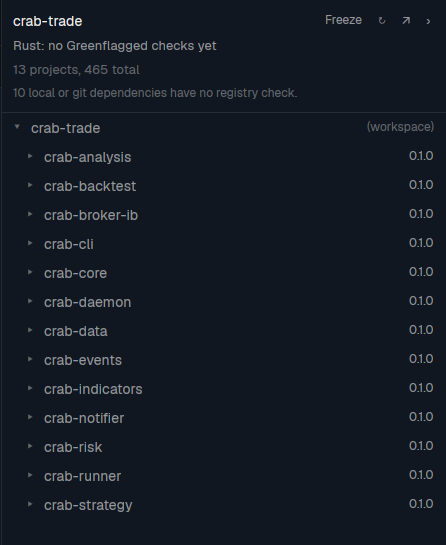
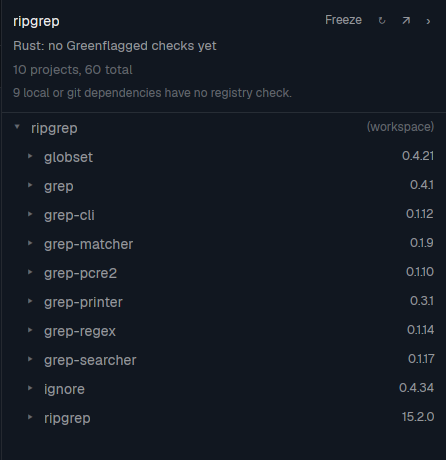
Address review findings (round 1)
- An audit error now drops a signed-out tree, so a later mid-edit no
  longer shows the sign-in line for a panel that holds a token.
- The README no longer says the audit checks every direct dependency.
- preview.png and docs/4-tree.webp are retaken on BurntSushi/ripgrep,
  with alt text and the RECIPE example rewritten to match.

Claude-Session: https://claude.ai/code/session_015cqYHJqSQygVaEB5pbEGiR

diff --git a/test/audit.test.js b/test/audit.test.js
@@ -2,7 +2,7 @@ import assert from "node:assert/strict";
 import { readFileSync } from "node:fs";
 import { test } from "node:test";
 import {
-  AUDIT_TTL_MS, ECOSYSTEMS, NPM_NOTE, REFUSED_NOTE, auditOutcome, MAX_ENTRIES, WATCHED_FILES, SIGN_IN_COMMAND, auditRequest, findBlock, findManifest, cachedAudit, storeAudit, packageUrl, rememberRequest, requestCall, withRequests, parentFolders, parseToolResponse, parsePackageJson, rows, summarize, tokenFromNpmrc, lastValidProject, staleNote,
+  AUDIT_TTL_MS, ECOSYSTEMS, NPM_NOTE, REFUSED_NOTE, auditOutcome, MAX_ENTRIES, WATCHED_FILES, SIGN_IN_COMMAND, auditRequest, findBlock, findManifest, cachedAudit, storeAudit, packageUrl, rememberRequest, requestCall, withRequests, parentFolders, parseToolResponse, parsePackageJson, rows, summarize, tokenFromNpmrc, lastValidProject, staleNote, staleState, screenAfterOutcome,
 } from "../mods/greenflagged/audit.js";
 import { countsLine, treeForProject } from "../mods/greenflagged/tree.js";
 
@@ -571,6 +571,27 @@ test("a token the audit accepts shows the audit; any other answer is an error", 
   assert.deepEqual(auditOutcome("gflag_x", 200), { view: "audit", message: null, forget: false });
   assert.deepEqual(auditOutcome("gflag_x", 500), { view: "error", message: "Greenflagged answered 500.", forget: false });
   assert.deepEqual(auditOutcome("gflag_x", 429), { view: "error", message: "Greenflagged answered 429.", forget: false });
+});
+
+test("an audit error drops a signed-out tree, so a later mid-edit isn't shown as signed out", () => {
+  const tree = { roots: [] };
+  const signedOut = { list: null, tree, treeSource: "s" };
+  assert.equal(staleState(signedOut, true), "signed-out");
+  const afterError = screenAfterOutcome(auditOutcome("gflag_x", 500), signedOut);
+  assert.deepEqual(afterError, { list: null, tree: null, treeSource: null });
+  assert.equal(staleState(afterError, true), null);
+});
+
+test("the tree outcome keeps the tree and drops the list; the audit outcome leaves both", () => {
+  const tree = { roots: [] }, list = [{ name: "a" }];
+  assert.deepEqual(screenAfterOutcome(auditOutcome(null), { list, tree, treeSource: "s" }), { list: null, tree, treeSource: "s" });
+  assert.deepEqual(screenAfterOutcome(auditOutcome("gflag_x", 200), { list, tree, treeSource: "s" }), { list, tree, treeSource: "s" });
+});
+
+test("staleState follows what is on screen", () => {
+  assert.equal(staleState({ list: [], tree: null }, true), "error");
+  assert.equal(staleState({ list: null, tree: {} }, false), "unsupported");
+  assert.equal(staleState({ list: null, tree: null }, false), null);
 });
 
 test("the npm entry is audited, has its own note, and reads no lockfile", () => {

diff --git a/mods/greenflagged/main.js b/mods/greenflagged/main.js
@@ -5,7 +5,7 @@ import {
 } from "herdr";
 import {
   MCP_URL, MAX_ENTRIES, SIGN_IN_COMMAND, WATCHED_FILES, auditOutcome, auditRequest, cachedAudit, findBlock, findManifest, lastValidProject, packageUrl, parentFolders,
-  parseToolResponse, rememberRequest, requestCall, rows, staleNote, storeAudit, summarize, tokenFromNpmrc, withRequests,
+  parseToolResponse, rememberRequest, requestCall, rows, screenAfterOutcome, staleNote, staleState, storeAudit, summarize, tokenFromNpmrc, withRequests,
 } from "./audit.js";
 import { countsLine, expandNode, failedNote, topLevel, treeForProject, visibleRows } from "./tree.js";
 
@@ -183,10 +183,8 @@ export default class Greenflagged extends View {
           // Mid-edit: keep the last valid list or tree of this file on this machine, dimmed,
           // with the error over it.
           const last = lastValidProject(this.project, project);
-          // By what is on screen: an audited project signed out shows a tree, not a list.
-          if (last && (this.list || this.tree)) {
-            return settle(this.list ? "error" : last.ecosystem.audited ? "signed-out" : "unsupported", staleNote(project.error), true);
-          }
+          const stale = last && staleState(this, last.ecosystem.audited);
+          if (stale) return settle(stale, staleNote(project.error), true);
           if (project.path !== this.project?.path || project.on !== this.project?.on) { this.tree = null; this.treeSource = null; this.expanded = new Set(); }
           this.project = project; this.list = null;
           return settle("error", project.error);
@@ -217,9 +215,9 @@ export default class Greenflagged extends View {
         if (run !== this.run) return;
         const outcome = auditOutcome(this.token, response?.status);
         if (outcome.forget) this.token = null;
+        Object.assign(this, screenAfterOutcome(outcome, this));
         // Signed out, the panel is still a tree viewer: the plain tree, with a sign-in line.
         if (outcome.view === "tree") {
-          this.list = null;
           await this.buildProjectTree(project, here, run, cx);
           if (run !== this.run) return;
           return settle("signed-out", outcome.message);

diff --git a/mods/greenflagged/audit.js b/mods/greenflagged/audit.js
@@ -228,6 +228,22 @@ export function lastValidProject(previous, failed) {
 }
 export const staleNote = (error) => `${error} · showing the last valid version`;
 
+// Mid-edit, the state to show over the last valid view, chosen by what is on screen: the
+// audit's list, or a tree, which for an audited project means signed out. Null with neither.
+export function staleState({ list, tree }, audited) {
+  if (list) return "error";
+  if (tree) return audited ? "signed-out" : "unsupported";
+  return null;
+}
+
+// What an audited project keeps on screen once the audit has answered. An error drops the
+// tree, so a mid-edit after it doesn't pick the signed-out view for a panel holding a token.
+export function screenAfterOutcome(outcome, { list, tree, treeSource }) {
+  if (outcome.view === "tree") return { list: null, tree, treeSource };
+  if (outcome.view === "error") return { list, tree: null, treeSource: null };
+  return { list, tree, treeSource };
+}
+
 // A parser should answer { error } on bad input; one that throws gets the same
 // { error } result, so findManifest still returns the project and its message names
 // the manifest file.

diff --git a/RECIPE.md b/RECIPE.md
@@ -2,7 +2,7 @@
 
 A dependency tree viewer for Herdr. It follows the terminal you're working in and shows the project's dependency tree for npm, Python, Rust, Go, Java and Kotlin, read from its manifest and lockfile. It needs no account. Greenflagged's checks are the extra layer: signed in, an npm (JavaScript) project's rows become verdicts, so the panel spots rejected and unreviewed dependencies as your agent works and shows what to use instead. [Greenflagged](https://greenflagged.dev) is a private npm registry that scans and reviews every package it serves. It is free for personal use.
 
-![Panel for the Rust workspace crab-trade reading "Rust: no Greenflagged checks yet", "13 projects, 465 total" and "10 local or git dependencies have no registry check", with an open crab-trade (workspace) row over its thirteen crates, each at 0.1.0](preview.png)
+![Panel for the Rust workspace ripgrep reading "Rust: no Greenflagged checks yet", "10 projects, 60 total" and "9 local or git dependencies have no registry check", with an open ripgrep (workspace) row over its ten crates, from globset 0.4.21 to ripgrep 15.2.0](preview.png)
 
 ## What you see
 
@@ -270,10 +270,10 @@ Levels and labels come from the audit `status`:
   deleted and ↻ clicked, it shows the no-lockfile note and the three manifest dependencies.
 - In a Rust project with a `Cargo.lock`, the panel shows "N direct, M total", `[dev-dependencies]`
   tagged `dev` and `[target.'cfg(...)'.dependencies]` with their cfg as a tag. At a workspace root
-  (crab-trade on 2026-11-01) it shows "13 projects, 465 total" under an open "crab-trade (workspace)" row; expanding
-  `crab-daemon` shows `crab-core 0.1.0 (project)`, which expands to crab-core's own dependencies, and
-  `crab-analysis` shows its `tokio` tagged `dev`. In `crates/daemon` it shows "26 direct, 416 total" with
-  versions and the sibling crates as `(project)` rows, and no no-lockfile note. Saving a member's
+  (BurntSushi/ripgrep at 91f5d22, on 2026-11-02) it shows "10 projects, 60 total" under an open
+  "ripgrep (workspace)" row over its ten crates. In `crates/ignore` it shows "10 direct, 30 total" with
+  versions, `crossbeam-channel` tagged `dev`, `winapi-util` tagged `cfg(windows)`, and the sibling crate
+  as `globset 0.4.21 (project)`, which expands to globset's own dependencies, and no no-lockfile note. Saving a member's
   `Cargo.toml` rebuilds the tree. With `Cargo.lock` moved away and ↻ clicked, the workspace row and its
   crates still show, at manifest versions, with the no-lockfile note.
 - Flipping between two projects inside 5 minutes sends one audit for each, not one per switch.

diff --git a/README.md b/README.md
@@ -30,11 +30,11 @@ live.
 
 At the root of a Rust workspace, the panel shows the workspace with its crates under it:
 
-![Panel for the Rust workspace crab-trade reading "Rust: no Greenflagged checks yet", "13 projects, 465 total" and "10 local or git dependencies have no registry check", with an open crab-trade (workspace) row over its thirteen crates, each at 0.1.0](preview.png)
+![Panel for the Rust workspace ripgrep reading "Rust: no Greenflagged checks yet", "10 projects, 60 total" and "9 local or git dependencies have no registry check", with an open ripgrep (workspace) row over its ten crates, from globset 0.4.21 to ripgrep 15.2.0](preview.png)
 
-In one crate of that workspace, with two sibling crates open:
+In one crate of that workspace, with a sibling crate as a `(project)` row:
 
-![Panel for crab-daemon reading "Rust: no Greenflagged checks yet" and "26 direct, 416 total", with its dependencies as plain rows and the crab-notifier and crab-risk sibling crates expanded to their own dependencies, some tagged dev](docs/4-tree.webp)
+![Panel for ripgrep's ignore crate reading "Rust: no Greenflagged checks yet", "10 direct, 30 total" and "1 local or git dependencies have no registry check", with its ten dependencies as plain rows: crossbeam-channel tagged dev, winapi-util tagged cfg(windows), and the sibling crate globset 0.4.21 tagged (project)](docs/4-tree.webp)
 
 An npm project before you sign in shows its direct dependencies the same way, with the sign-in link
 above them:
@@ -43,7 +43,7 @@ above them:
 
 ### With Greenflagged checks
 
-Signed in, the same npm panel checks every direct dependency. Here it opens on a project with one
+Signed in, the same npm panel checks its registry dependencies, up to 500 of them; local and git ones have no registry check. Here it opens on a project with one
 blocked dependency and suggests a replacement for it:
 
 ![link-shortener project with 7 ok, 3 attention and 1 blocked; request is rejected, with @cypress/request suggested instead](docs/1-before.webp)
